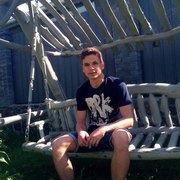
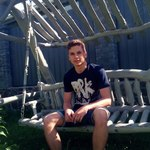
commit

diff --git a/app/assets/stylesheets/application.css.sass b/app/assets/stylesheets/application.css.sass
@@ -33,8 +33,8 @@
 .circular
   display: block
   margin: 0 auto
-  width: 180px
-  height: 180px
+  width: 150px
+  height: 150px
   border: 1px solid black
   border-radius: 150px
   -webkit-border-radius: 150px

diff --git a/app/models/resume.rb b/app/models/resume.rb
@@ -2,7 +2,7 @@ class Resume < ActiveRecord::Base
   has_many :skills
   has_attached_file :avatar,
                     :styles => {
-                        :small => "180x180#"
+                        :small => "150x150#"
                     }
   validates :name, presence: true,
             length: {minimum: 5}
